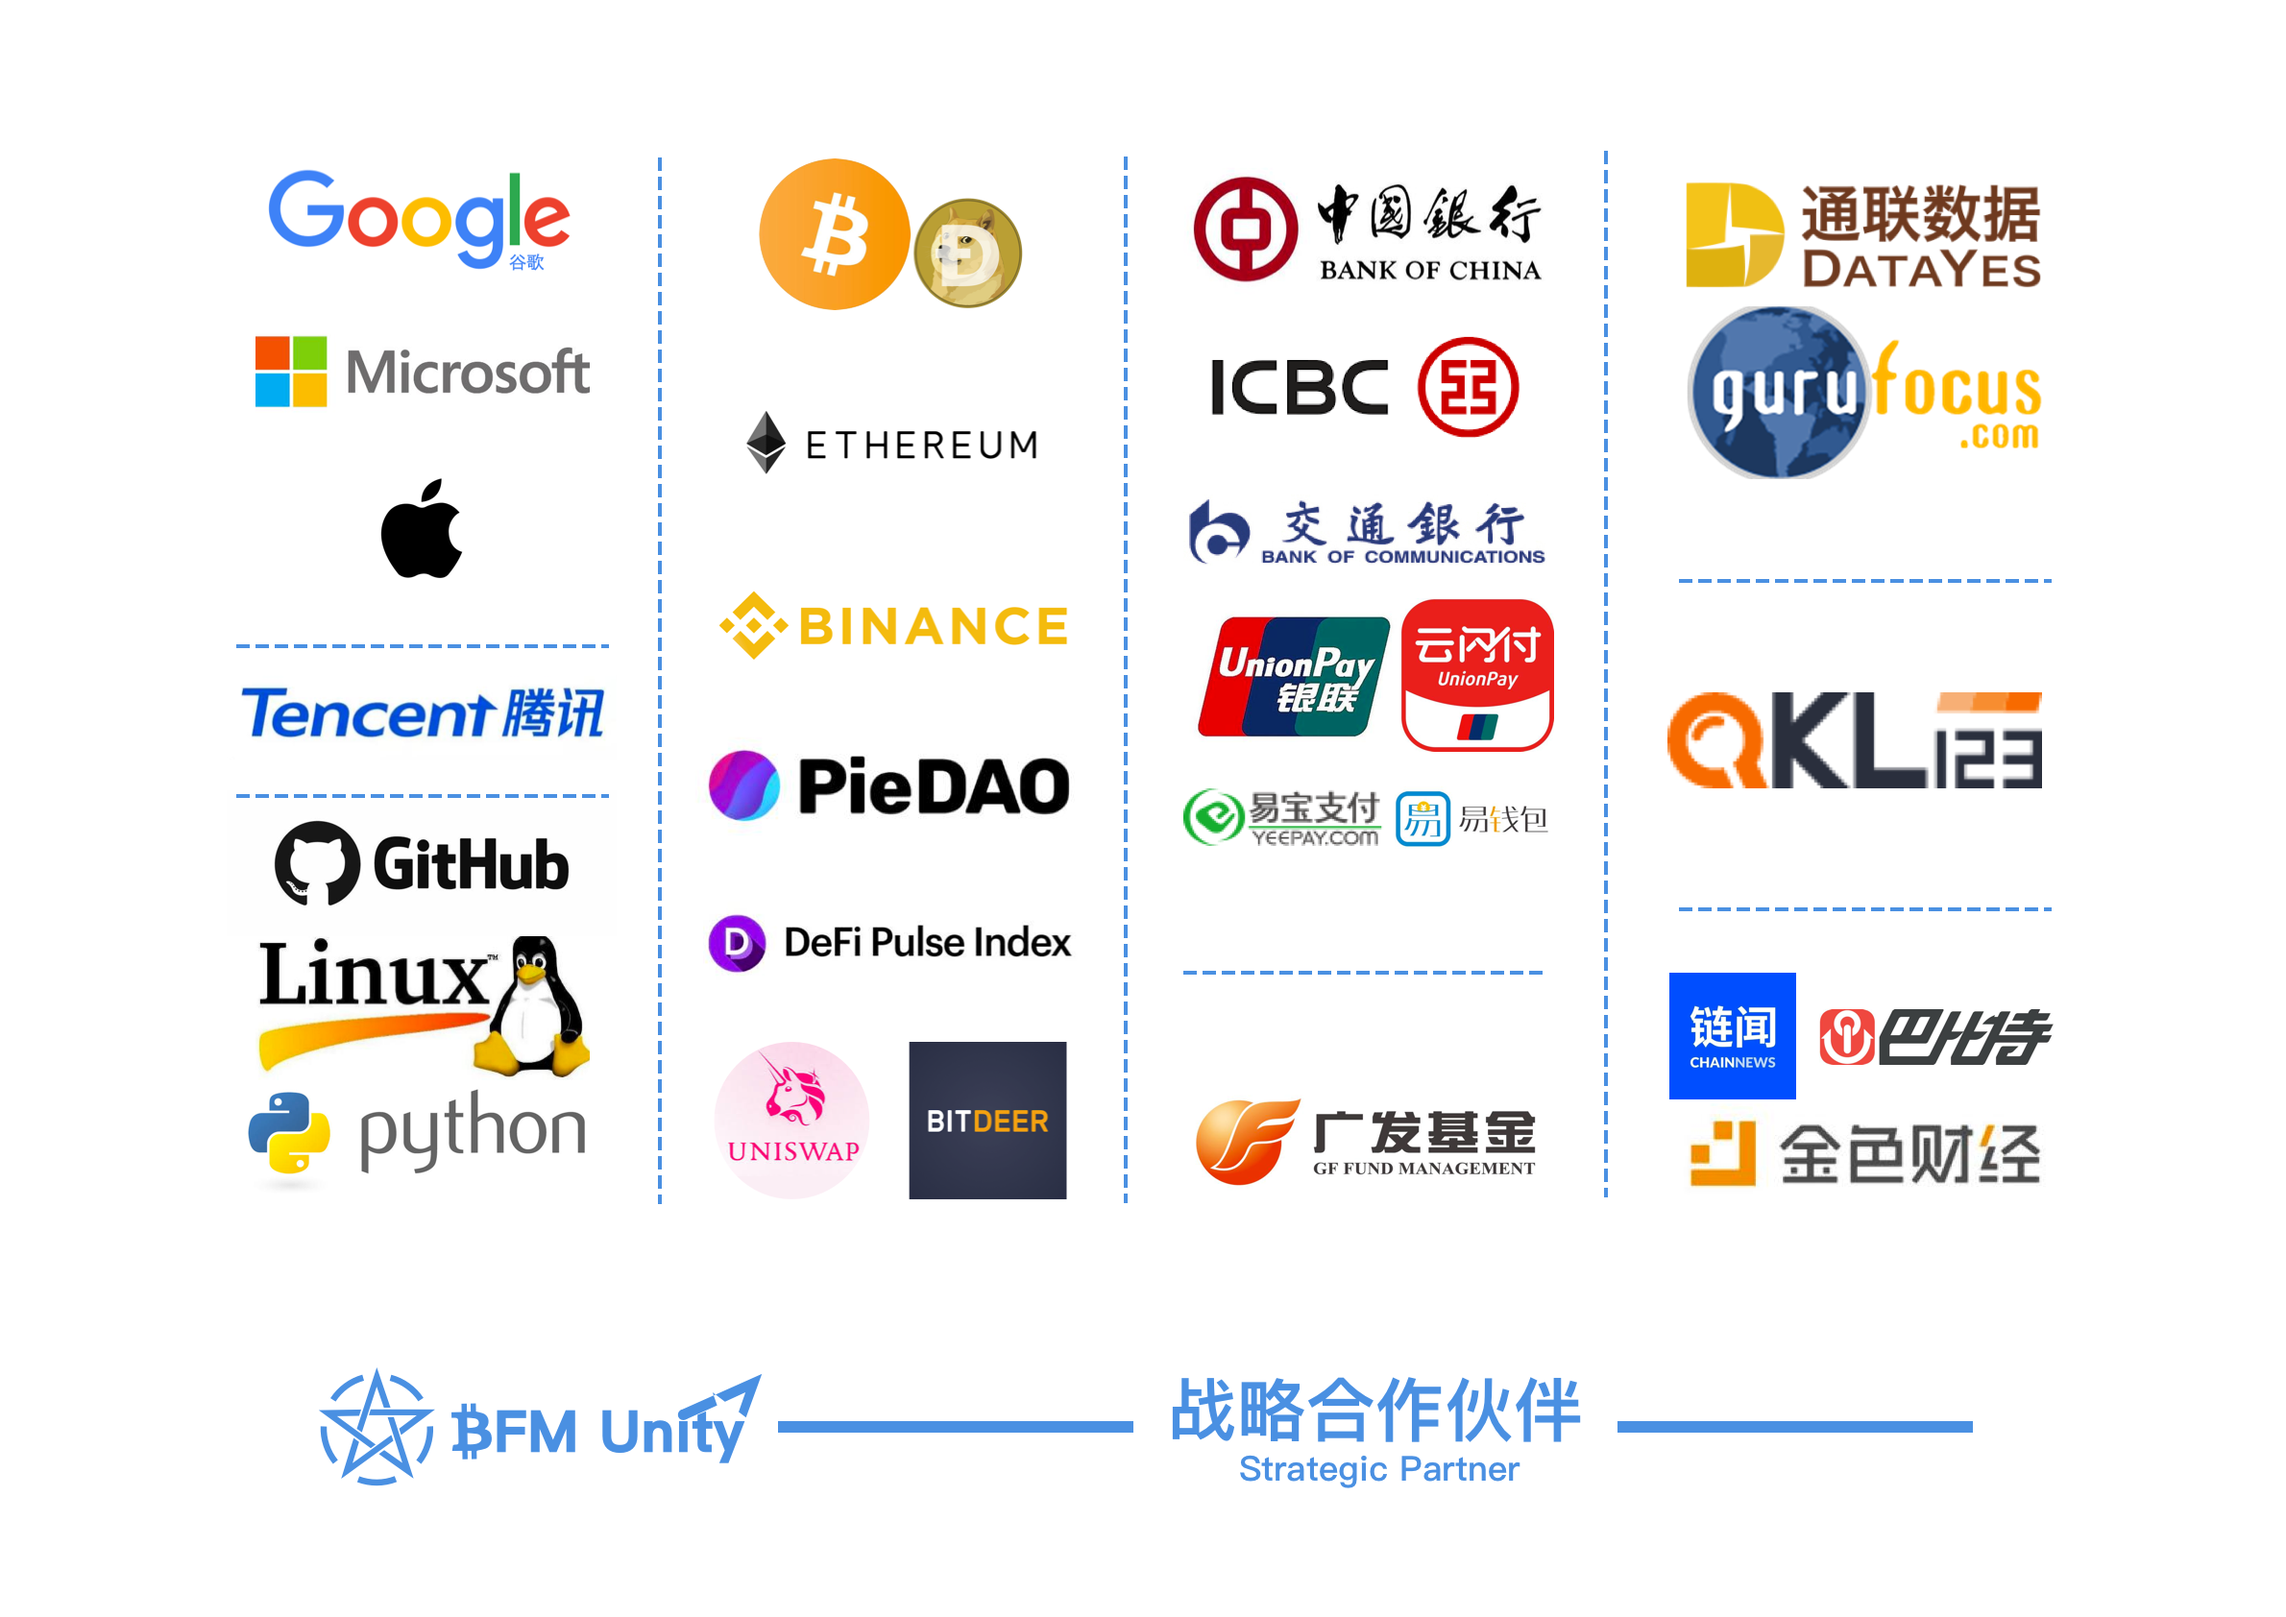
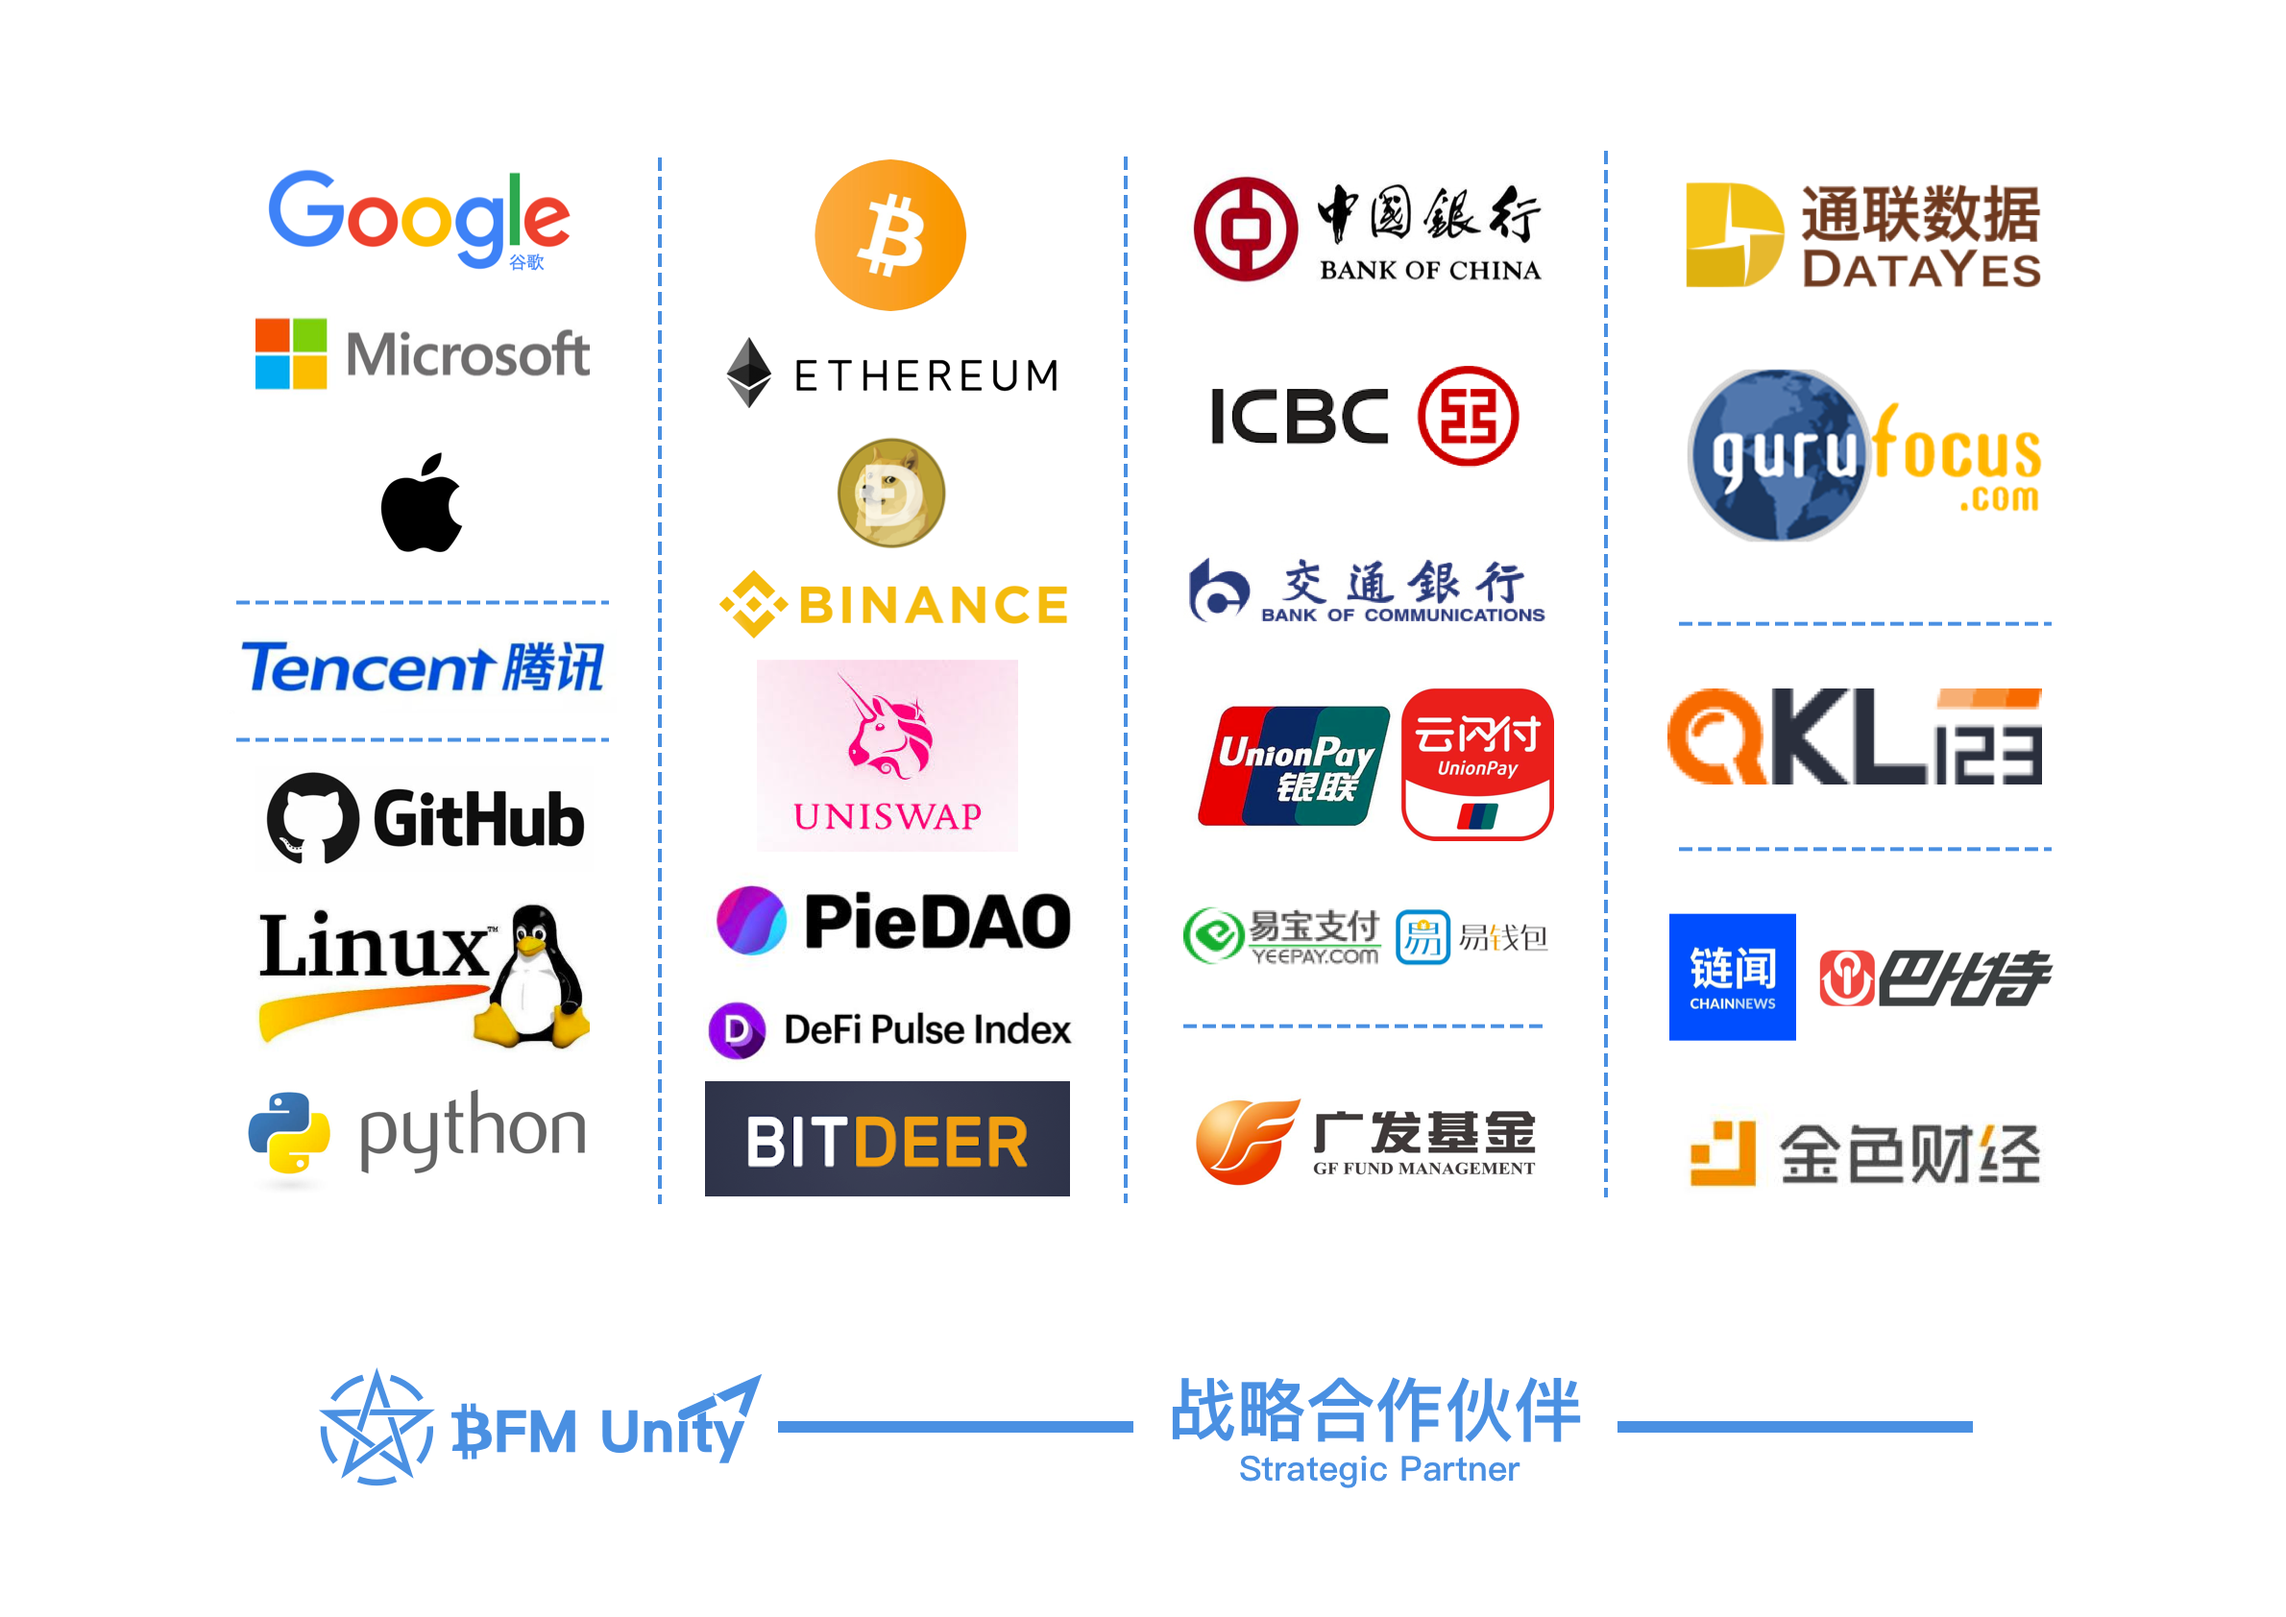
GitBook: [master] one page and 2 assets modified

diff --git a/README.md b/README.md
@@ -58,7 +58,7 @@ NOTE: **This project is in beta. Use at your own risk.**
 
 ## 战略合作伙伴 <a id="zhan-lve-he-zuo-huo-ban"></a>
 
-![](.gitbook/assets/bfm-unity-zhan-lve-he-zuo-huo-ban-%20%283%29.png)
+![](.gitbook/assets/bfm-unity-zhan-lve-he-zuo-huo-ban-%20%282%29.png)
 
 ## 愿景及使命 <a id="yuan-jing-ji-shi-ming"></a>
 
